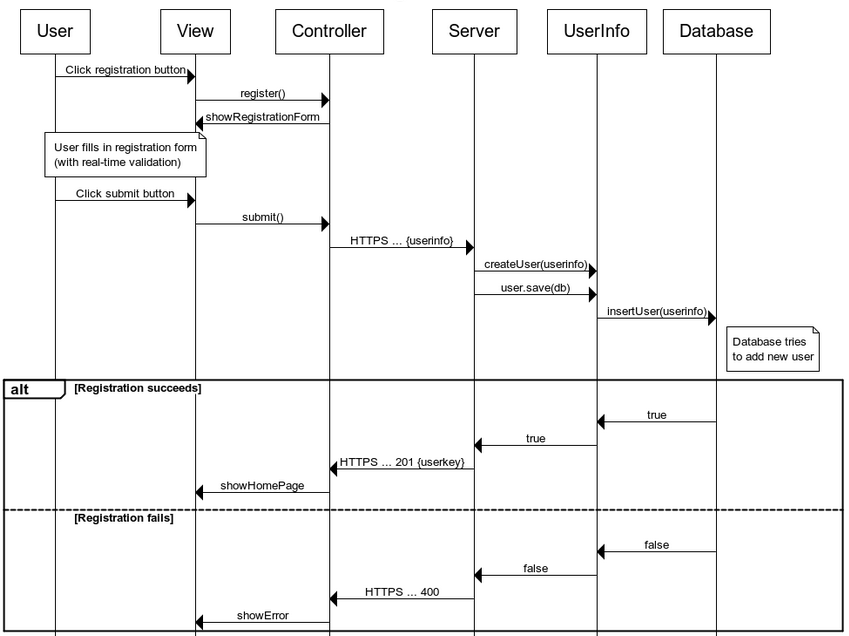
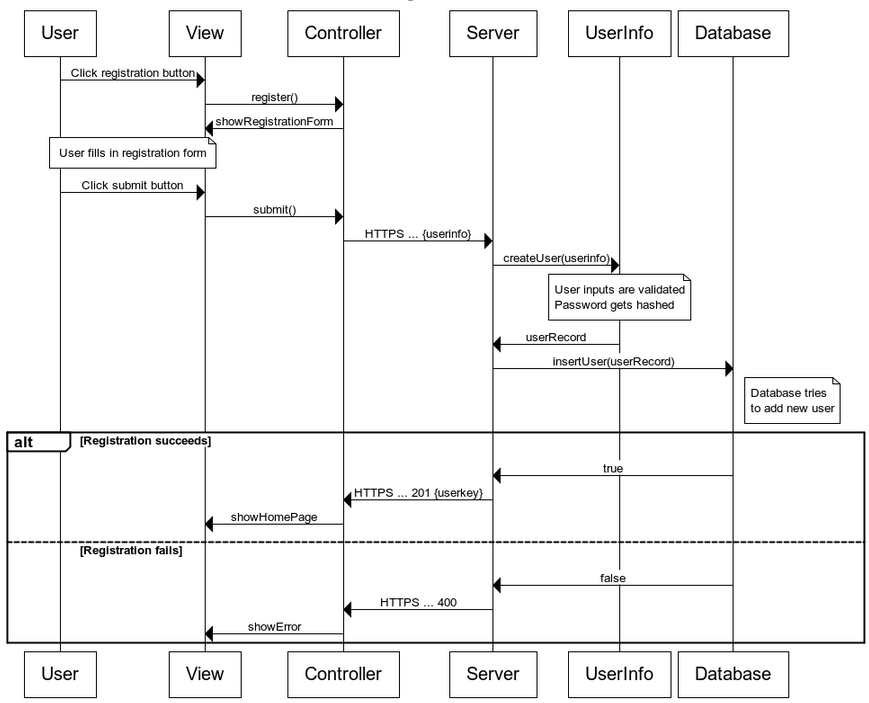
SDD gecorrigeerd

Changed region(s): [[0.0, 0.0, 1.0, 1.0], [0.4287, 0.8365, 0.5206, 0.8664]]

diff --git a/SDD/main.tex b/SDD/main.tex
@@ -10,6 +10,7 @@
 \usepackage{geometry}
 \usepackage{url}
 \usepackage[dutch]{babel}
+\usepackage[bottom]{footmisc}
 
 \bibliographystyle{abbrv} %abbrvnat geeft problemen
 
@@ -48,10 +49,10 @@ via de grafische webinterface als via een aparte API voor third-parties.
 
 \subsection{Scope}
 
-SKRIBL is een webapplicatie dat gebruikers toelaat om publicaties met elkaar te delen
+SKRIBL is een webapplicatie die gebruikers toelaat om publicaties met elkaar te delen
 en te beheren op een interactieve manier. De bedoeling is dus dat men zowel eigen publicaties kan uploaden, alsook op zoek kan gaan naar andere publicaties en zo dus een volledig netwerk kan opbouwen binnen zijn/haar onderzoeksdomein. Het systeem moet hiervoor ook de nodige interface en visualisaties aanbieden, zowel in normale desktop-browsers als voor mobiele apparaten.
 
-Hiervoor zal de software worden uitgerust met een databank en de nodige applicatielogica om aan alle software eisen te voldoen. Ook moet het systeem rekening houden met de webarchitectuur en bekijken hoe de modules en verantwoordelijkheden worden verdeeld onder de client en de server. Voor een volledig overzicht van de beoogde functionaliteit wordt verwezen naar het SRS \cite{Xtreport:SRS}.
+Hiervoor zal de software worden uitgerust met een databank en de nodige applicatielogica om aan alle software eisen te voldoen. Ook moet het systeem rekening houden met de webarchitectuur en bekijken hoe de modules en verantwoordelijkheden worden verdeeld onder de client en de server. Voor een volledig overzicht van de beoogde functionaliteit wordt verwezen naar het SRS ~\cite{Xtreport:SRS}.
 
 \subsection{Overzicht}
 
@@ -61,7 +62,7 @@ Daarna wordt op een systematische manier bekeken wat elk component binnen het sy
 
 Nadien volgt een beschrijving van de interfaces, zowel van de grafische webomgeving als van de API. In dit gedeelte kan men terugvinden hoe het systeem gebruikt kan worden en wordt het verloop van de mogelijke handelingen beschreven. Deze handelingen zijn voornamelijk gebaseerd op de requirements zoals opgesteld in het SRS~\cite{Xtreport:SRS}. \\
 
-Dit opmaak van dit document is gebaseerd op de IEEE 1016-1998 standaard voor SDD's\citep{website:IEEE}.
+De opmaak van dit document is gebaseerd op de IEEE 1016-1998 standaard voor SDD's~\citep{website:IEEE}.
 
 \subsection{Referentiemateriaal}
 \begingroup
@@ -100,11 +101,11 @@ Dit opmaak van dit document is gebaseerd op de IEEE 1016-1998 standaard voor SDD
 
 \subsection{Context}
 
-De software zal uiteindelijk worden geleverd in de de vorm van een webapplicatie. Dit houdt in dat op de server een HTTP(S)-server zal draaien en de client vanuit de browser hiernaar requests zal sturen via een aangename webinterface (zowel voor mobiele als voor desktop-clients).
+De software wordt opgeleverd in de de vorm van een webapplicatie. Dit houdt in dat op de server een HTTP(S)-server zal draaien en de client vanuit de browser hiernaar requests zal sturen via een webinterface, ontworpen voor zowel mobiele als desktop-clients.
 
 \subsection{Organisatie}
 
-De software zal worden ontwikkeld volgens de principes van het Agile Development Proces. Zo zal de implementatie van de componenten die in dit document worden beschreven verlopen in verschillende iteraties en sprints. Voor een gedetailleerde beschrijving en planning van deze sprints wordt verwezen naar het SPMP \cite{Xtreport:SPMP}.
+De software zal worden ontwikkeld volgens de principes van het Agile Development Proces. Zo zal de implementatie van de componenten die in dit document worden beschreven verlopen in verschillende iteraties en sprints. Voor een gedetailleerde beschrijving en planning van deze sprints wordt verwezen naar het SPMP ~\cite{Xtreport:SPMP}.
 
 \subsection{Gebruikte technologie\"en}
 
@@ -113,19 +114,18 @@ Daarnaast zullen ook volgende open-source frameworks en libraries worden gebruik
 
 \begin{itemize}
 
-\item \textbf{ExpressJS} zal worden gebruikt als framework om de webapplicatie te ontwikkelen om zo gemakkelijker een API voor de server te kunnen ontwerpen\cite{website:ExpressJS}. 
+\item \textbf{ExpressJS} zal worden gebruikt als framework om de webapplicatie te ontwikkelen en zo gemakkelijker een API voor de server te kunnen ontwerpen\cite{website:ExpressJS}. 
 
-\item \textbf{OrientDB} zal dan weer gebruikt worden als DMBS\cite{website:OrientDB}. OrientDB is een zogeheten NoSQL-database, waarbij data niet wordt georangiseerd in tabellen zoals in een coventionele SQL-database. Specifiek zal gebruik worden gemaakt van de GraphDB-abstractie die OrientDB aanbiedt bovenop hun standaard database. 
-Dit laat toe om om alle informatie rondom gebruikers, publicaties, ... in SKRIBL te modelleren als een graaf. (voor de communicatie over het binary protocol wordt gebruik gemaakt van oriento \cite{website:Oriento}) 
-
-\item \textbf{Swagger} zal gebruikt worden om de RESTFul API te documenteren naar 3rd-parties toe\cite{website:Swagger}. Swagger kan tevens ge\"integreerd worden met Express om gemakkelijker deze documentatie te genereren. 
+\item \textbf{OrientDB} zal dan weer gebruikt worden als DMBS~\cite{website:OrientDB}. OrientDB is een zogeheten NoSQL-database, waarbij data niet wordt georganiseerd in tabellen zoals in een conventionele SQL-database. Specifiek zal gebruik worden gemaakt van de GraphDB-abstractie die OrientDB aanbiedt bovenop hun standaard database. 
+Dit laat toe om om alle informatie rondom gebruikers, publicaties, ... in SKRIBL te modelleren als een graaf. Voor de communicatie over het binary protocol wordt gebruik gemaakt van oriento.~\cite{website:Oriento}
 
 \item \textbf{AJAX} zal op de client worden gebruikt om op een asynchrone (en dus gebruiksvriendelijke) manier requests te sturen naar de server en vervolgens de UI te updaten. Deze technologie is van cruciaal belang om te voldoen aan de design filosofie die wordt beschreven in \ref{sec:rationale}.
 
-\item Daarnaast zal voor de front-end gebruik worden gemaakt van \textbf{AngularJS}. AngularJS  is een zeer flexibel MVC-framework dat HTML uitbreidt met specifieke directives, controllers, ... \cite{website:AngularJS}. 
+\item Daarnaast zal voor de front-end gebruik worden gemaakt van \textbf{AngularJS}. AngularJS  is een zeer flexibel MVC-framework dat HTML uitbreidt met specifieke directives, controllers, ... ~\cite{website:AngularJS}. 
 \end{itemize}
 
-Ten slotte zal de server als onderliggende (open-source) runtime gebruik maken van \textbf{NodeJS}. NodeJS maakt het mogelijk om ook server-side Javascript te gebruiken met een performant event-driven (m.a.w. asynchroon, non-blocking) model\cite{website:NodeJS}. 
+Ten slotte zal de server als onderliggende (open-source) runtime gebruik maken van \textbf{NodeJS}. NodeJS maakt het mogelijk om ook server-side Javascript te gebruiken met een performant event-driven (m.a.w. asynchroon, non-blocking) model~\cite{website:NodeJS}. 
+\clearpage
 
 \section{System Architecture}
 
@@ -138,19 +138,20 @@ Hieronder vindt men een grafische voorstelling van dit concept:
 
 \begin{figure}[!h]
 \centering
- \includegraphics[width=140mm]{MVC.jpg}
+ \includegraphics[width=130mm]{MVC.jpg}
  \caption{Illustratie van het MVC-patroon}
  \label{Model-View-Controller}
 \end{figure}
 
 \thispagestyle{fancy}
-Hierbij zal de webserver voornamelijk de rol van M op zich nemen, terwijl de client de VC-rollen zelf zal beheren. We kunnen hier dus niet langer spreken over een thin, maar wel over een Rich client (rich betekent hier niet noodzakelijk `fat'; onder model wordt ook de applicatielogica rondom dit model verstaan, waardoor de server nog altijd deze belangrijke functies zal moeten implementeren).
+Hierbij zal de webserver voornamelijk de rol van M op zich nemen, terwijl de client de VC-rollen zelf zal beheren. We kunnen hier dus niet langer spreken over een thin, maar wel over een Rich client \footnote{Rich betekent hier niet noodzakelijk `fat'; onder model wordt ook de applicatielogica rondom dit model verstaan, waardoor de server nog altijd deze belangrijke functies zal moeten implementeren.}. 
 
 Op die manier zal de applicatie in feite het concept van een Single-Page Application (SPA) volgen, waarbij alle functionaliteit van de server wordt vrijgegeven via een RESTFul API. Hierdoor wordt het gemakkelijker om later aparte desktop en mobiele versies aan te maken en kunnen ook andere developers gebruik maken van SKRIBL.
 
 \subsection{Architectuur}
 
-Op basis van deze filosofie kan men de architectuur indelen in een three-tier model met een client tier, server tier, en database tier. Op de client tier gebeurt alle user-interactie met de view en wordt de front-end applicatie beheert via controllers. Deze zullen de nodige gegevens halen via de (RESTful) API van de server, die ook de voornaamste services aan de front-end zal leveren. Voor de uiteindelijke interactie met de data zelf, zal deze server-tier dan ten slotte ook communiceren met de database-tier, waarop de OrientDB-database zich bevindt. \\
+Op basis van deze filosofie kan men de architectuur indelen in een three-tier model met een client tier, server tier, en database tier. Op de client tier gebeurt alle user-interactie met de view en wordt de front-end applicatie beheert via controllers. Deze zullen de nodige gegevens halen via de (RESTful) API van de server, die ook de voornaamste services aan de front-end zal leveren. \\ 
+Voor de uiteindelijke interactie met de data zelf, zal deze server-tier dan ten slotte ook communiceren met de database-tier, waarop de OrientDB-database zich bevindt. \\
 Hieronder vindt men een visualisatie van deze architectuur:
 
 \begin{figure}[!h]
@@ -162,16 +163,19 @@ Hieronder vindt men een visualisatie van deze architectuur:
 
 \subsection{Decompositie}
 
-Dit onderdeel geeft een beknopt overzicht van de verschillende onderdelen uit bovenstaande architectuur. Voor een gedetailleerde beschrijving van hun individuele componenten wordt verwezen naar sectie~\ref{sec:components}.
+Hier word een beknopt overzicht gegeven van de verschillende onderdelen uit bovenstaande architectuur. Voor een gedetailleerde beschrijving van hun individuele componenten wordt verwezen naar sectie~\ref{sec:components}.
 
 \subsubsection{Client Tier}
 
 \paragraph{Views} 
-De views vormen hier de GUI voor de eindgebruiker en verschillen voor desktop en mobiele gebruikers. Om het concept van de Single-Page Application te verwezenlijken, zal de server daarom bij bezoek van de website een zogeheten template aanleveren, afhankelijk van het apparaattype van de gebruiker.
-Deze template zal gebruik maken van AngularJS en voldoende applicatielogica bevatten (in JavaScript) om tijdens het verloop van de applicatie zelf de interface te laten evolueren.
+De views vormen hier de GUI voor de eindgebruiker en verschillen voor desktop en mobiele gebruikers. Om het concept van de Single-Page Application te verwezenlijken, zal de server daarom bij bezoek van de website een zogeheten template aanleveren, afhankelijk van het apparaattype van de gebruiker. Deze template zal gebruik maken van AngularJS en voldoende applicatielogica bevatten (geconfigureerd via de controllers) om tijdens het verloop van de applicatie zelf de interface te laten evolueren. De opmaak en structuur ervan gebeuren aan de hand van HTML \& CSS.
+
+Er zullen vanzelfsprekend aparte views nodig zijn om zowel mobiele als desktop-gebruikers te ondersteunen. Hierbij is het wel de bedoeling dat zoveel mogelijk code uit de controllers kan worden hergebruikt, wat mogelijk is dankzij de scheiding tussen view en controller die wordt aangeboden door het MVC-patroon.
 
 \paragraph{Controllers} 
 De controllers zullen via de AngularJS-directive `ng-controller' worden verbonden aan de views en handelingen van de gebruiker verwerken. Meestal houdt dit in dat een AJAX-call naar de server zal worden gemaakt en het resultaat (meestal in JSON-formaat) geparsed en gebruikt zal worden om zo de view te updaten.
+
+De controllers dragen daarnaast ook de verantwoordelijkheid om de 'flow' van de applicatie te beheren. De server is (volgens de REST-principes) stateless en houdt dus geen sessiegegevens bij. Het is dus de taak van de controllers om bijvoorbeeld bij te houden welke gebruiker is ingelogd en waar hij/zij mee bezig is. In feite biedt de Server Tier enkel een interface aan voor de gegevens die in de applicatie moeten worden weergegeven.
 
 \subsubsection{Server Tier}
 
@@ -179,7 +183,9 @@ De controllers zullen via de AngularJS-directive `ng-controller' worden verbonde
 Dit gedeelte van de Server API is verantwoordelijk voor het afhandelen van requests van de client. Afhankelijk van het type request en de route (path) zal een bepaalde handler worden opgeroepen die gebruik zal maken van de back-end om de bijhorende applicatielogica uit te voeren en het juiste resultaat naar de client terug te sturen. Als ingangspunt van de server-tier is dit gedeelte dus ook verantwoordelijk voor het opstellen van de RESTful API.
 
 \paragraph{Back-end} 
-De back-end voorziet dan weer de meeste functionaliteit van de applicatie. Het interageert met het model via de database-tier en bestaat uit verschillende componenten (en hun bijhorende abstracties) om de `core' van de server-tier te implementeren.
+De back-end voorziet dan weer de meeste functionaliteit van de applicatie. Hoewel de applicatie er voornamelijk in bestaat gegevens in het model correct op te slaan (via de database-tier), is er ook een aparte laag nodig voor de applicatielogica. Deze bevindt zich voor het grootste deel op de server en wordt op de back-end in aparte modules afgehandeld.
+
+Hierbij gaat het vooral over de verwerking van de gegevens zoals gebruikers en publicaties. De back-end zal bijvoorbeeld zorgen voor de server-side validatie van gebruikersinput en zal ook de extractie van gegevens (metadata) uit publicaties op zich nemen. Ook complexere operaties op de database, die nodig zijn om bepaalde features te implementeren, zullen hier terug te vinden zijn.
 
 \subsubsection{Database Tier}
 
@@ -194,18 +200,19 @@ De organisatie van data is cruciaal bij het ontwerp van SKRIBL. Een effici\"ente
 
 Om die reden werd gekozen om gebruik te maken van een graph-database. Een graf is veruit de meest natuurlijke representatie van het model en maakt het later ook gemakkelijk om verbanden in de applicatie te verwerken en te visualiseren. 
 
-Concreet werd er gekozen voor OrientDB omdat deze bovenop haar NoSQL-database ook een abstractie aanbiedt die specifiek is ontworpen om graph-databases in elkaar te steken. Daarnaast is het ook een zeer performante DBMS met een zeer gebruiksvriendelijke API. \\
+Concreet werd er gekozen voor OrientDB omdat deze bovenop haar NoSQL-database ook een abstractie aanbiedt die specifiek is ontworpen om graph-databases in elkaar te steken. Daarnaast is het ook een zeer performante DBMS met een gebruiksvriendelijke API. \\
 
 Wat volgt is een (E)ER-model van de huidige structuur in de database:
 
 \begin{figure}[!h]
 \centering
- \includegraphics[width=150mm]{ER-model.png}
+ \includegraphics[width=149mm]{ER-model.png}
  \caption{Structuur van de graf in een (E)ER-model}
  \label{ER-model}
 \end{figure}
 
-\textit{[In verdere iteraties zal de entiteit publicatie verder gespecialiseerd in verschillende types en zullen er ook meer attributen en entiteiten (conferenties, journals, ...) bijkomen]}
+\textit{[In de komende iteraties zal de entiteit publicatie verder worden uitgebreid in verschillende subklassen en zullen mogelijks meer attributen en entiteiten worden toegevoegd. Hiervoor zullen aparte ER-diagrammen worden gebruikt om het overzicht hier te bewaren.
+]}
 
 \clearpage
 
@@ -218,33 +225,50 @@ In dit gedeelte worden de verschillende componenten die samen de applicatie vorm
 
 \subsection{Server}
 
-De server zelf vormt het ingangspunt van de server-tier. Deze module kan geconfigureerd worden met bepaalde routes en zal zo de request naar een bepaalde handler delegeren (met de bedoeling om zo een RESTFul API samen te stellen). De handlers zullen op hun beurt dan weer gebruik maken van de back-end, waar de meeste applicatielogica van de server-tier zich bevindt en waar ook de communicatie met de DB-tier plaatsvindt. \\
+De server zelf vormt het ingangspunt van de server-tier. Deze module kan geconfigureerd worden met bepaalde routes en zal zo de request naar een bepaalde handler delegeren (met de bedoeling om zo een RESTFul API samen te stellen). De handlers zullen op hun beurt dan weer gebruik maken van de back-end, waar de meeste applicatielogica van de server-tier zich bevindt en waar ook de communicatie met de DB-tier plaatsvindt.  \\
 
-Momenteel bevat dit component vooral methodes om de server te configureren (port, routes, ...) en om ze te laten opstarten.
+Momenteel bevat dit component vooral methodes om de server te configureren en om ze op te starten met een SSL-certificaat (HTTPS). Daarnaast is er ook een mogelijkheid voorzien om de server te configureren met extra modules en om authenticatie toe te voegen aan bepaalde requests.
 
 \subsection{Routes}
 
-Routes zullen op de server worden gebruikt om de verschillende requests af te handelen.Op die manier wordt het configureren van de Server API gebruiksvriendelijker en overzichtelijker in de code. \\
+Routes zullen op de server worden gebruikt om de verschillende requests af te handelen.Op die manier wordt het configureren van de Server API gebruiksvriendelijker en overzichtelijker in de code. Routes kunnen gemakkelijk worden gedefinieerd en bevinden zich in de folder \textit{/server/routes}.\\
 
-Een bepaalde route wordt gekenmerkt door een bepaald path (zoals /users) en verschillende handlers voor zowel GET, POST, PUT \& DELETE requests op die route. Een handler is hierbij een functie die een request en response als argumenten nemen en het response-object correct configureert op basis van de request. Een route-object ondersteunt dan getters \textit{get()}, \textit{post()}, ... om deze handlers te gebruiken. 
+Een bepaalde route wordt gekenmerkt door een bepaald path (zoals /users) en verschillende handlers voor zowel GET, POST, PUT \& DELETE requests op die route. Een handler is hierbij een functie die een request en response als argumenten nemen en het response-object correct configureert op basis van de request. Een route-object ondersteunt dan properties \textit{get}, \textit{post)}, ... om deze handlers te gebruiken. 
+
+\subsection{Authentication}
+
+Deze module bevat een speciale functie die aan de hand van het HTTP-request zal bepalen welke user zich hier authenticeert (of hij geeft aan dat de credentials ongeldig zijn). Specifiek wordt hier gebruik gemaakt van Basic Authentication, waarbij de gebruiker zijn username:password over HTTPS meegeeft aan de server, ge\"encodeerd in base64.\\
+
+Vervolgens kan men dan gebruik maken van de methode \textit{useAuthentication} van de server om deze module te gebruiken authenticatie. Routes kunnen vervolgens aangeven of een geauthenticeerde gebruiker al dan niet toestemming heeft om een bepaalde request uit te voeren. Dit kan door aan de handlers een speciale property \textit{auth} mee te geven. Op die manier wordt het gemakkelijk om een handler te beveiligen, wordt code-duplicatie vermeden en kan men gemakkelijk van authenticatiestrategie veranderen.
 
 \subsection{Validation}
 
 Deze module wordt in feite niet alleen op de back-end, maar ook op de front-end gebruikt om input van de gebruiker te valideren. Server-side validation is niet alleen aangewezen vanuit een design-standpunt, maar is ook noodzakelijk om veiligheidsredenen. Client-side validation zorgt dan weer voor een aangenamere en effici\"entere gebruikerservaring. \\
 
-Concreet gaat hier in deze module vooral om functies die worden gebruikt om de geldigheid van een gebruikersnaam, wachtwoord, e-mailadres etc. te controleren. Zo zal men in deze module procedures zoals \textit{validUsername(username)}, \textit{validPassword(pwd)}, ... terugvinden.
+Concreet gaat hier in deze module vooral om functies die worden gebruikt om de geldigheid van een gebruikersnaam, wachtwoord, e-mailadres etc. te controleren. Zo zal men in deze module procedures zoals \textit{validUsername(username)}, \textit{validPassword(pwd)}, ... terugvinden. Dit gebeurt aan de hand van regular expressions, die standaard worden aangeboden door JavaScript. Daarnaast wordt ook een aparte module \textit{researchDomain} gebruikt, waarin mogelijke onderzoeksdomeinen en disciplines, onderverdeeld in majors en minors, wordt geraadpleegd om na te gaan of het opgegeven onderzoeksdomein wel bestaat.
 
-\subsection{UserInfo}
+\subsection{UserRecord}
 
-Deze klasse bevat alle noodzakelijke informatie over een bepaalde gebruiker in het systeem. Zo'n gebruikersinformatie kan ofwel worden geladen uit de database, ofwel kan via een constructor een nieuwe gebruiker worden aangemaakt (bijvoorbeeld bij de registratie). 
+Deze klasse bevat alle noodzakelijke informatie over een bepaalde gebruiker in het systeem. Zo'n gebruikersinformatie kan ofwel worden geladen uit de database, ofwel kan via een constructor een nieuwe gebruiker worden aangemaakt die eerst alle input zal valideren en het wachtwoord zal hashen.
 
-Veel van de ge\"exporteerde methodes in deze module zijn asynchroon en verwachten dus een callback bij oproep. Dit patroon zal ook in andere modules (zoals dat van de database) voorkomen en is inherent aan web-applicaties in NodeJS. Bij het laden van de gebruiker uit de database via \textit{loadUser(db, name, callback)} zal zo bijvoorbeeld niet meteen een nieuw gebruikersobject worden aangemaakt, maar zal de meegeleverde callback worden opgeroepen met de gebruikersinfo als deze is geladen. \\
+Het resulterende object kan dan gebruikt worden om gemakkelijk gegevens van de gebruiker op te vragen, of men kan aan de database een nieuw UserRecord geven om aan het systeem toe te voegen. Ook bij het laden van user zal de database zo'n object teruggeven. Naast de gebruikelijke kenmerken zoals (gebruikers)naam, taal, e-mailadres houdt dit record ook de affiliatie en onderzoeksdomeinen van de gebruiker bij.
 
-Het resulterende object kan dan gebruikt worden om gemakkelijk gegevens van de gebruiker op te vragen aan de hand van getters of om de gebruiker meteen in een database op te slaan of te verwijderen (respectievelijk met \textit{save(db)} en \textit{remove(db)}. Ook kan men met een gelijkaardige methode \textit{exists(db, callback)} nagaan of een gebruiker al bestaat in de databank.
+\paragraph{Opermerking}
+Veel van de ge\"exporteerde methodes in deze module zijn asynchroon en verwachten dus een callback bij oproep. Dit patroon zal ook in andere modules (zoals dat van de database) voorkomen en is inherent aan web-applicaties in NodeJS. Bij het laden van de gebruiker uit de database via \textit{loadUser(db, name, callback)} zal zo bijvoorbeeld niet meteen een nieuw gebruikersobject worden aangemaakt, maar zal de meegeleverde callback worden opgeroepen met de gebruikersinfo als deze is geladen. 
+
+\subsection{PublicationRecord}
+
+Een PublicationRecord bevat, op deze manier als een userRecord, alle nodige metadata over een publicatie. Opnieuw is er een aparte constructor voorzien die ondere andere een path neemt naar de nieuwe publicatie, hieruit de nodige gegevens extraheert en vervolgens zo volledig mogelijk een record aanmaakt. \\
+
+Vervolgens kan men met zo'n object specifieke metadata van de publicatie opvragen a.d.h.v. getters en kan men ook vragen om een filepath naar het bestand te genereren. Deze records worden ook gegenereerd door de database wanneer men een publicatie opvraagt en worden eveneens verwacht om nieuwe publicaties aan te maken.
 
 \subsection{Database}
 
-In deze module vindt men een abstractie voor alle communicatie met de database. Het implementeert een bepaalde interface die onder andere door de Server- en UserInfo-modules wordt verwacht. Concreet is het Database-object verantwoordelijk voor een databaseverbinding op te zetten en de nodige queries uit te voeren. Zo zal methodes aanbieden om nieuwe gebruikers toe te voegen, gegevens van bestaande gebruikers op te vragen, ... . Opnieuw zijn de meeste hiervan asynchroon. \\
+In deze module vindt men een abstractie voor alle communicatie met de database. Het implementeert een bepaalde interface die onder andere door de Server- en UserInfo-modules wordt verwacht. Concreet is het Database-object verantwoordelijk voor het opzetten van een databaseverbinding en het uitvoeren van de nodige queries voor de interactie met het model. Zo worden er methodes aangeboden die onder andere nieuwe gebruikers toevoegen, gegevens van bestaande gebruikers opvragen of een nieuwe publicatie opslaan.
+
+Om de code hiervoor te organiseren, zijn er voor elke entiteit aparte modules gemaakt die aan de database kunnen worden toegevoegd en die verantwoordelijk zijn voor een bepaald deel van haar functionaliteit. Op die manier wordt vermeden dat deze klasse onoverzichtelijk veel code op zich moet nemen en kan men gemakkelijk een bepaald deel van de databaselogica terugvinden. \\
+
+Ten slotte bevat de database ook redelijk wat private methodes; deze zijn nodig om alle gegevens correct op te slaan volgens het (E)ER-diagram uit ~\ref{ER-model}. Zo worden in de database ook al alle lagen van de affiliation (researchGroup, department, faculty, institution) correct bijgehouden. Op dezelfde manier worden ook researchDomains gemodelleerd op de database als aparte entiteiten.\\
 
 De communicatie met de server waarop de database zich bevindt, gebeurt aan de hand van een binary protocol dat OrientDB aanbiedt. Hiervoor wordt gebruik gemaakt van de open-source library Oriento, zodat de queries gewoon kunnen worden uitgevoerd vanuit JS. 
 
@@ -252,15 +276,15 @@ De communicatie met de server waarop de database zich bevindt, gebeurt aan de ha
 
 \section{Software domain design}
 
-In dit onderdeel wordt bekeken hoe de verschillende componenten in het systeem samenwerken om een bepaalde functionaliteit de verwezenlijken. Op die manier wordt duidelijk gemaakt welke verantwoordelijkheid elk onderdeel in het systeem heeft.
-Meestal zal de beschrijving worden gegeven aan de hand van sequentiediagram of (in het geval van een algoritme) pseudocode.
+In dit onderdeel wordt bekeken hoe de verschillende componenten in het systeem samenwerken om een bepaalde functionaliteit te verwezenlijken. Op die manier wordt duidelijk gemaakt welke verantwoordelijkheid elk onderdeel in het systeem heeft.
+Meestal zal de beschrijving worden gegeven aan de hand van een sequentiediagram of (in het geval van een algoritme) pseudocode.
 
 Voor een volledig overzicht van alle benodige functionaliteit wordt verwezen naar het SRS \cite{Xtreport:SRS}.
 
 \subsection{Inloggen}
 
 Bij het inloggen zal de client eerst een request sturen naar de server met gebruikersnaam en wachtwoord toegevoegd in plaintext. Indien correct, zal de server een id-string terugsturen naar de client die hij later bij elke request die authenticatie vereist moet toevoegen. Volgens de principes van een RESTful ontwerp, mag er echter geen (session) state op de server worden bijgehouden en zal deze unieke identificatiestring dus niet gebonden zijn aan een bepaalde sessie. Momenteel is het gewoon een encodering van de gebruikersnaam en wachtwoord in base64 (= Basic Access Authentication).
-Uit veiligheidsoverwegingen zal voor de persistente opslag van wacthwoorden in de databasenk wel encryptie worden gebruikt. \\ 
+Uit veiligheidsoverwegingen zal voor de persistente opslag van wachtwoorden in de databasenk wel encryptie worden gebruikt. \\ 
 
 Uit deze beschrijving kunnen we ook al afleiden dat het zeker nodig zal zijn HTTPS te gebruiken om zo alle communicatie tussen client en server te encrypteren met SSL (weliswaar met een self-signed key). Zoniet zou het niet veilig zijn om wachtwoorden (ge\"encodeerd of niet) door te sturen.
 
@@ -279,7 +303,7 @@ Deze opmerking geldt ook voor alle andere sequentiediagrammen in dit onderdeel.
 
 \subsection{Registreren}
 
-Om een nieuwe gebruiker te registeren, dient men eerst een registratieformulier in te vullen. Om de gebruikerservaring hierbij de verbeteren zal dit gebeuren met real-time client-side validation (naast de server-side validation, die noodzakelijk is). 
+Om een nieuwe gebruiker te registeren, dient men eerst een registratieformulier in te vullen. Om de gebruikerservaring hierbij de verbeteren zal dit gebeuren met client-side validation (naast de server-side validation, die noodzakelijk is). 
 
 Van zodra alle informatie is ingevuld, zal de client een identificatiestring terugkrijgen indien de nieuwe gebruiker succesvol is toegevoegd. Zoniet, zal de server een HTTP 40x-error teruggeven.
 
@@ -290,13 +314,26 @@ Van zodra alle informatie is ingevuld, zal de client een identificatiestring ter
  \label{register-sequence}
 \end{figure}
 
+\subsection{Publicaties toevoegen}
+
+Een nieuwe publicatie toevoegen gebeurt door een combinatie van de HTTP PUT en POST commando's. Eerst en vooral dient men de publicatie zelf te uploaden met HTTP PUT. De server zal aan de hand van dit bestand dan proberen zoveel mogelijk metadata te extraheren en aan te vullen, alvorens het bestand uiteindelijk op te slaan in de database. Vervolgens zal de client een id en de afgeleide metadata terugkrijgen van deze nieuwe publicatie. Dit id kan hij dan gebruiken met een HTTP POST operatie om daarna de gegevens verder aan te vullen in het systeem. \\
+
+Hieronder volgt opnieuw een sequentiediagram die dit proces illustreert. Om het overzichtelijk te houden, werden de scenario's waarin er foutmeldingen worden gegenereerd niet gemodelleerd in dit diagram.
+
+\begin{figure}[!h]
+\centering
+ \includegraphics[width=145mm]{upload-sequence.png}
+ \caption{Vereenvoudigd sequentiediagram bij het toevoegen van publicaties}
+ \label{upload-sequence}
+\end{figure}
+
 \clearpage
 
 \section{Human Interface Design}
 
 \subsection{Filosofie}
 
-Het front-end team van SKRIBL heeft een duidelijke visie over de uiteindelijke gebruikerservaring. Zo zal worden ingezet op een flat, anti-skeumorphistisch ontwerp dat futuristisch oogt. Daarnaast zullen ook de principes van `interfaceless interface' en de `three-click rule' worden gevolgd en zal gewerkt worden met vectori\"ele graphics in plaats van bitmaps.
+Het front-end team van SKRIBL heeft een duidelijke visie over de uiteindelijke gebruikerservaring. Zo zal worden ingezet op een flat, anti-skeumorphistisch ontwerp dat futuristisch oogt. Daarnaast zullen ook de principes van `interfaceless interface' en de `three-click rule' worden gevolgd en zal gewerkt worden met vectori\"ele graphics in plaats van bitmaps. Het eindresultaat zal bijgevolg veel weg hebben van een 'Material Design'~\cite{website:material}.
 
 \subsection{Overzicht}
 
@@ -306,34 +343,56 @@ Hieronder vindt men de voorlopige functionaliteit van de UI:
 
 \begin{description}
 
-\item[Inloggen] Op de startpagina zal de gebruiker twee inputvelden terugvinden om zijn/haar naam en wachtwoord (niet textueel zichtbaar) in te geven. Daarna dient men enkel op de knop `inloggen' te klikken en zal bij een correct wachtwoord het dashboard van de gebruiker worden weergegeven, bij een incorrect wachtwoorden zal slechts een foutmelding worden getoond.
+\item[Inloggen] Op de startpagina zal de gebruiker twee inputvelden terugvinden om zijn/haar naam en wachtwoord (niet textueel zichtbaar) in te geven. Daarna dient men enkel op de knop `inloggen' te klikken en zal bij een correct wachtwoord het dashboard van de gebruiker worden weergegeven, bij een incorrect wachtwoord zal een foutmelding worden getoond.
 
-\item[Dashboard] Het dashboard is de startpagina van de gebruiker vanwaar men een overzicht kan krijgen van de meest relevante informatie voor de gebruiker (zoals recente publicaties). Momenteel is het enkel voorzien van een knop waarmee de gebruiker zich terug kan uitloggen.
+\item[Dashboard] Het dashboard is de startpagina van de gebruiker vanwaar men een overzicht kan krijgen van de meest relevante informatie voor de gebruiker (zoals recente publicaties). Momenteel is het enkel voorzien van enkele knoppen waarmee de gebruiker zich ondere andere terug kan uitloggen of zijn account kan verwijderen. Daarnaast is het ook al mogelijk om hier publicaties te uploaden, hoewel er nog geen mogelijkheid is om ge\"uploade publicaties later terug te vinden.
 
-\item[Registreren] Registratie gebeurt van zodra de gebruiker op de knop `registreren' klikt en het registratieformulier invult. Om de gebruikerservaring te verbeteren zal de client-side validatie real-time gebeuren en zal men pas op `submit' kunnen klikken van zodra alle informatie volledig en correct is ingevuld. Daarna komt de gebruiker ofwel terecht op zijn nieuw dashboard, ofwel krijgt hij een foutmelding te zien wanneer het toevoegen is mislukt.
+\item[Registreren] Registratie gebeurt van zodra de gebruiker op de knop `registreren' klikt en het registratieformulier invult. Om de gebruikerservaring te verbeteren zal er ook meteen client-side validatie gebeuren voordat men een aanvraag tot registratie kan verzenden. Daarna komt de gebruiker ofwel terecht op zijn nieuw dashboard, ofwel krijgt hij een foutmelding te zien wanneer het toevoegen is mislukt.
 
 \end{description}
 
 \subsection{Screenshots}
 
-\textit{[Momenteel heeft de front-end designer al verschillende ontwerpen voor de UI opgemaakt, maar is er in de groep nog geen consensus bereikt over de beste keuze hieruit. Van zodra dit het geval is, zal men in deze sectie screenshots van de GUI kunnen terugvinden.]}
+Hieronder worden ten slotte nog enkele screenshots meegegeven om het design te illustreren. 
+
+\begin{figure}[!h]
+\centering
+ \includegraphics[width=145mm]{screenshot1.png}
+ \caption{Screenshot van de startpagina}
+\end{figure}
+
+\begin{figure}[!h]
+\centering
+ \includegraphics[width=145mm]{screenshot2.png}
+ \caption{Screenshot van het registratieformulier}
+\end{figure}
+
 
 \clearpage
 
 \section{Externe API}
 
-Naast de grafische interface, biedt het systeem ook een API aan voor externe ontwikkelaar die hun eigen applicaties willen integreren met SKRIBL. Dit gebeurt met RESTful API over HTTP. \\
-
-\textit{[Het documenteren van deze API gebeurt normaal gezien automatisch aan de hand van Swagger. Aangezien deze momenteel echter nog niet is geconfigureerd en nog niet alle code is geschreven, volgt hieronder een (voorlopige) versie van de API.]} \\
+Naast de grafische interface, biedt het systeem ook een API aan voor externe ontwikkelaars die hun eigen applicaties willen integreren met SKRIBL. Dit gebeurt met RESTful API over HTTP(S). \\
 
 \begin{description}
-\item[POST /login] Deze request wordt gebruikt om in te loggen, men geeft gebruikersnaam en wachtwoord (over HTTPS) mee in JSON-formaat en krijgt een unieke identificatiestring terug van de server die men later moet meegeven bij bepaalde requests.
+\item[POST /login] Deze request wordt gebruikt om in te loggen, men geeft de gebruikersnaam en het wachtwoord (over HTTPS) mee in JSON-formaat en krijgt een unieke identificatiestring terug van de server die men later moet meegeven bij bepaalde requests.
 
 \item[GET /user/<username>] Op deze manier kan men in JSON-formaat relevante informatie van een bepaalde gebruiker in het systeem opvragen.
 
-\item[PUT /user/<username>] Met deze request kan een nieuwe gebruiker op de server worden aangemaakt. Alle nodige gebruikersinformatie dient worden meegegeven bij de request als JSON-data.
+\item[PUT /user/<username>] Met deze request kan een nieuwe gebruiker op de server worden aangemaakt. Alle nodige gebruikersinformatie dient te worden meegegeven bij de request als JSON-data.
 
 \item[DELETE /user/<username>] Hierbij dient men expliciet zijn/haar identificatiestring mee te geven. Het resultaat is dat de aangeduide gebruiker uit het systeem zal worden verwijderd.
+
+\item[PUT /publications] Hiermee kan men een nieuwe publicatie uploaden in het systeem. Het volstaat om enkel het bestand en naam mee te geven, later kan metadata verder worden aangevuld. De server zal bij deze request een uniek id van de publicatie teruggeven, samen met de gegevens die werden ge\"extraheerd.
+
+\item[GET /publications/<pub-id>] Haalt een publicatie van de server met een opgegeven id. In de headers wordt extra metadata worden meegegeven.
+
+\item[POST /publications/<pub-id>] Hiermee kan men de metadata van publicaties updaten, deze dient meegeleverd te worden in JSON-formaat. Voor deze operatie dient men zich tevens te authenticeren als oorspronkelijke uploader van de publicatie.
+
+\item[DELETE /publications/<pub-id>] Deze methode zal een publicatie van de server verwijderen. Ook hier dient men zich correct te authenticeren.
+
+\item[GET /publications] Hierbij wordt verwacht dat men een aparte query-string meegeeft om op zoek te gaan naar een bepaalde publicatie. Het resultaat is dan een JSON-array van publicatie-id's die voldoen aan de criteria. \\
+bijvoorbeeld: /publications?author=hjespers of /publications?topic=Physics\&year=2014
 
 \end{description}
 

diff --git a/SDD/change_history.tex b/SDD/change_history.tex
@@ -8,9 +8,17 @@
     \textbf{Versie} & \textbf{Datum} & \textbf{Auteurs\cite{note:author}} & \textbf{Beschrijving} \\
     \hline
     
-    1.0     &  19/11/2014   &   \begin{tabular}{c} 
+    0     &  19/11/2014   &     \begin{tabular}{c} 
                                     Noah Van Es \\
-                                \end{tabular} & Aanmaak eerste versie \\
+                                \end{tabular} & Aanmaak eerste versie voor iteratie 0 \\
+    \hline
+    1     &  14/12/2014    &    \begin{tabular}{c}
+                                    Noah Van Es \\
+                                \end{tabular} & 
+                                \begin{tabular}{c}
+                                    Aanvullingen voor eerste iteratie \\ 
+                                    Aanpassingen gebaseerd op feedback \\
+                                \end{tabular} \\
     \hline
 \end{tabular}
 \end{center}

diff --git a/SDD/title_page.tex b/SDD/title_page.tex
@@ -36,7 +36,7 @@
 % anders laten we ze gewoon staan...
 
 %volgens mij ziet het er zo heel goed uit, maar als ze echt wegmoeten mss vub logo groter maken? 
-% => OK, ik vind het ook veter zo, we laten ze staan!
+% => OK, ik vind het ook  beter zo, we laten ze staan!
 Douglas Horemans \textit{<dhoreman@vub.ac.be>}\\
 Hannah Pinson \textit{<hpinson@vub.ac.be>}\\
 Ivo Vervlimmeren \textit{<ivervlim@vub.ac.be>}\\
